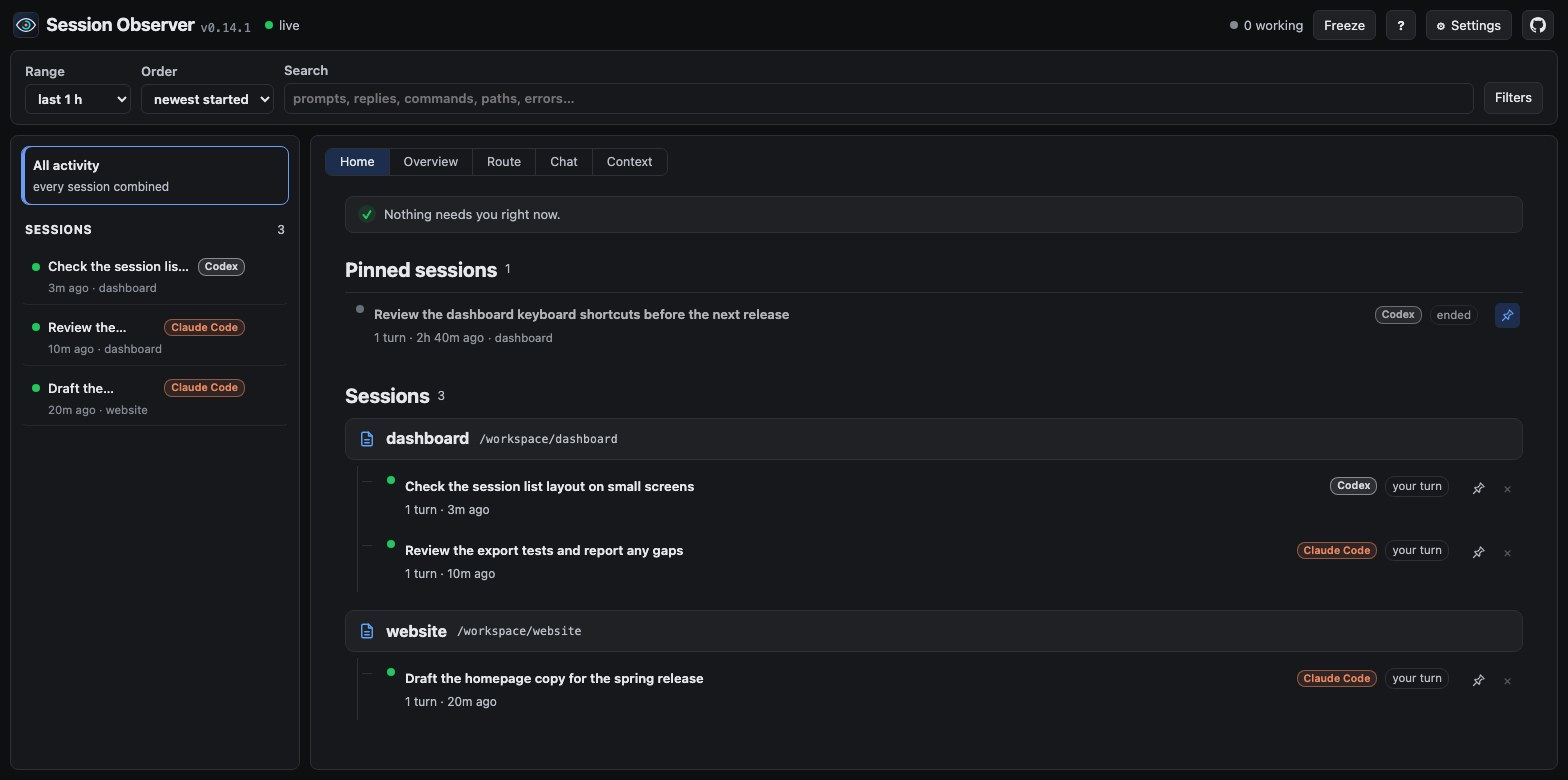
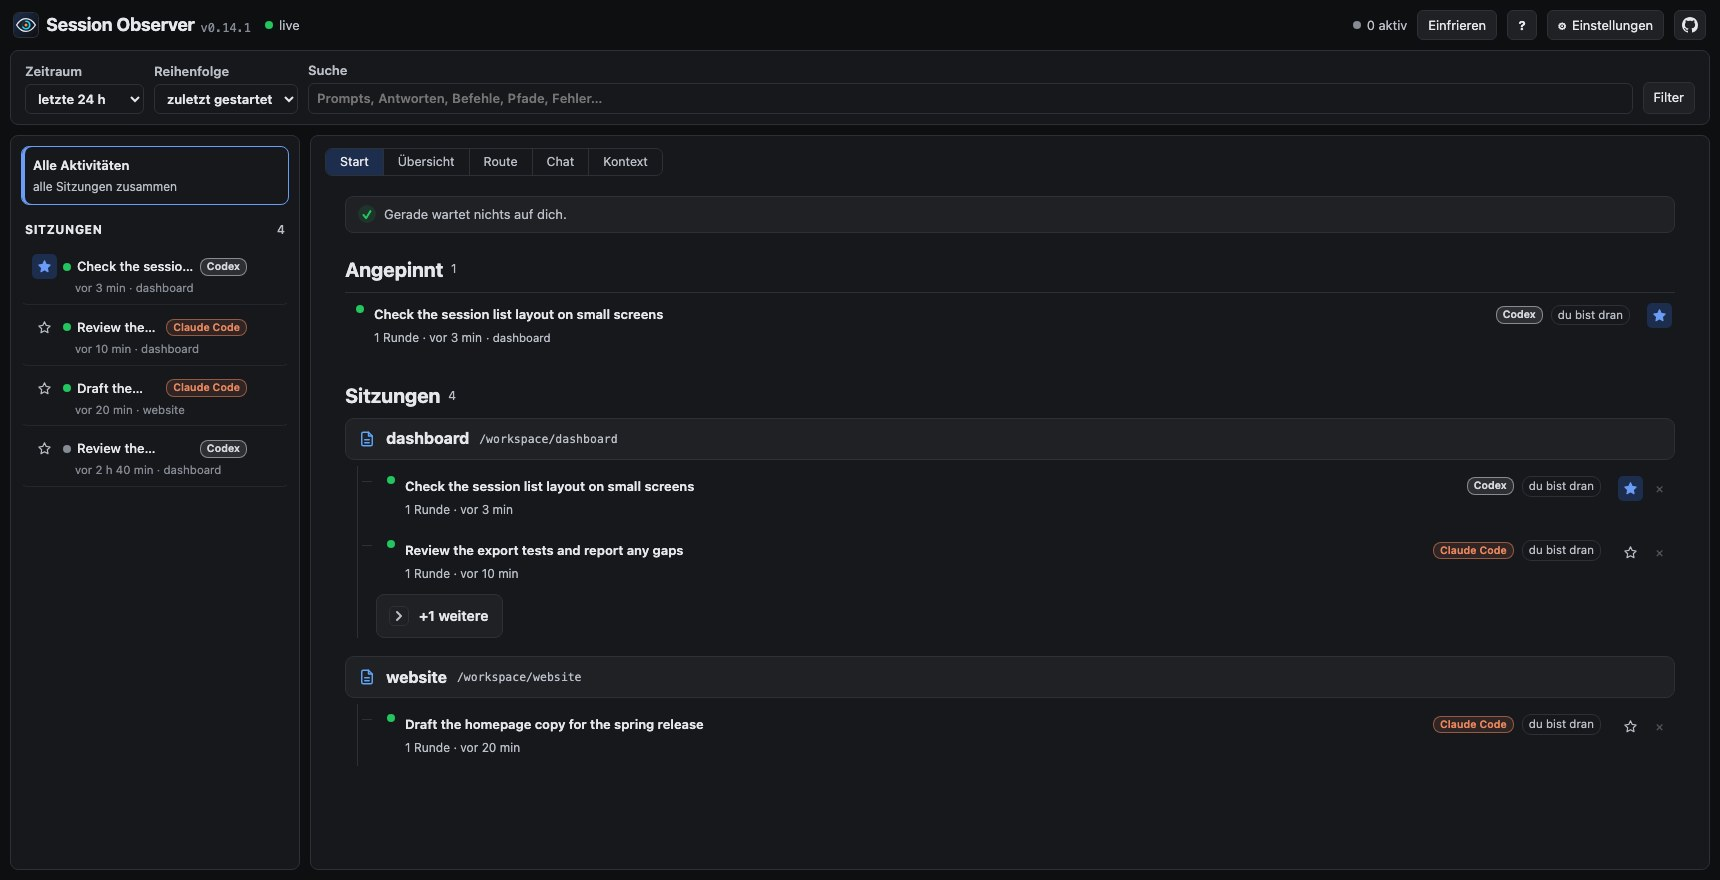
feat: star sessions in the sidebar and narrow details

diff --git a/server/dashboard/features/sessions/render.js b/server/dashboard/features/sessions/render.js
@@ -15,26 +15,28 @@ const sessionName = session => stripTags(session.title) || baseName(session.cwd)
 // The orders of the sessions list. Only "activity" moves a session while it works; the others change only when a
 // session starts or is renamed. "project" groups by folder (A–Z), newest started first inside each.
 const byStarted = (a, b) => (b.started || b.last || '').localeCompare(a.started || a.last || '');
+const byPinned = (a, b) => Number(!!b.pinned) - Number(!!a.pinned);
 const projectOf = session => session.cwd || '';
 const SESSION_ORDERS = {
   started: byStarted,
   activity: (a, b) => (b.last || '').localeCompare(a.last || ''),
   name: (a, b) => sessionName(a).localeCompare(sessionName(b), undefined, { sensitivity: 'base' }) || byStarted(a, b),
   project: (a, b) => (baseName(projectOf(a)) || '\uffff').localeCompare(baseName(projectOf(b)) || '\uffff', undefined, { sensitivity: 'base' })
-    || projectOf(a).localeCompare(projectOf(b)) || byStarted(a, b),
+    || projectOf(a).localeCompare(projectOf(b)) || byPinned(a, b) || byStarted(a, b),
 };
 
-// the sessions in the range that match the search (the selected one always), in the chosen order
+// Pins bypass the date range and sort first within the chosen order or project group.
 function visibleSessions() {
   const cutoff = rangeCutoffIso();
   const matchesSearch = session => !state.searchText
     || ((session.title || '') + ' ' + (session.cwd || '') + ' ' + session.id).toLowerCase().includes(state.searchText)
     || state.scope === session.id;
+  const order = SESSION_ORDERS[state.sessionOrder] || byStarted;
   return [...state.sessions.values()]
-    .filter(session => !cutoff || (session.last || '') >= cutoff)
+    .filter(session => session.pinned || !cutoff || (session.last || '') >= cutoff)
     .filter(session => isAgentShown(session.agent || DEFAULT_AGENT) || state.scope === session.id)
     .filter(matchesSearch)
-    .sort(SESSION_ORDERS[state.sessionOrder] || byStarted);
+    .sort(state.sessionOrder === 'project' ? order : (a, b) => byPinned(a, b) || order(a, b));
 }
 
 function selectedRangeLabel() {
@@ -55,6 +57,11 @@ function sessionChipsHtml(session) {
     + (session.context ? `<span class="chip" title="${escapeHtml(TEXT.ctxWindow)}">${escapeHtml(TEXT.ctxShort)} ${Math.round(session.context.pct * 100)}%</span>` : '');
 }
 
+function sessionPinHtml(session, className) {
+  const pinTitle = session.pinned ? TEXT.home.unpinSession : TEXT.home.pinSession;
+  return `<button class="session-pin ${className}" type="button" data-pin-session="${escapeHtml(session.id)}" title="${escapeHtml(pinTitle)}" aria-label="${escapeHtml(TEXT.home.pinSession)}" aria-pressed="${!!session.pinned}">${iconSvg('star')}</button>`;
+}
+
 // The list shows the state dot, the title, and under it when and where; the rest is in a card that floats beside it on hover.
 // The agent badge shows only when the list has sessions of more than one agent.
 function sessionCardHtml(session, showAgent) {
@@ -68,7 +75,7 @@ function sessionCardHtml(session, showAgent) {
   const meta = `${session.last ? escapeHtml(formatAgo(session.last)) : ''} · ${escapeHtml(countOf(session.turns || 0, 'turn'))} · ${escapeHtml(countOf(session.toolCalls || 0, 'tool'))}`
     + (outputTokens ? ` · ${escapeHtml(TEXT.outX(formatCompactNumber(outputTokens)))}` : '');
   return `<div class="card ${session.id === state.scope ? 'sel' : ''}" data-id="${escapeHtml(session.id)}">
-        <div class="row1"><span class="${dotClass}" title="${status}"></span><span class="name">${name}</span>${agentTag}<button class="session-delete" type="button" data-delete-session="${escapeHtml(session.id)}" title="${escapeHtml(TEXT.deleteSessionTitle)}" aria-label="${escapeHtml(TEXT.deleteSessionTitle)}">×</button></div>
+        <div class="row1">${sessionPinHtml(session, 'sidebar-session-pin')}<span class="${dotClass}" title="${status}"></span><span class="name">${name}</span>${agentTag}<button class="session-delete" type="button" data-delete-session="${escapeHtml(session.id)}" title="${escapeHtml(TEXT.deleteSessionTitle)}" aria-label="${escapeHtml(TEXT.deleteSessionTitle)}">×</button></div>
         ${where ? `<div class="sline">${escapeHtml(where)}</div>` : ''}
         <template class="sdet"><div class="row1"><span class="name">${name}</span><span class="state"><span class="${dotClass}"></span>${status}</span></div>
         <div class="meta">${meta}</div>${lastTool}
@@ -102,6 +109,7 @@ function renderSessions() {
   const sessions = visibleSessions();
   const showAgent = new Set(sessions.map(session => session.agent || DEFAULT_AGENT)).size > 1;
   const panel = elementById('sessions'), scrollTop = panel.scrollTop;
+  const focusedPin = panel.contains(document.activeElement) && document.activeElement.dataset.pinSession;
   panel.innerHTML = `
     <div class="card ${state.scope === ALL_SESSIONS ? 'sel' : ''}" data-id="all">
       <div class="row1"><span class="name">${escapeHtml(TEXT.allActivity)}</span></div>
@@ -110,6 +118,7 @@ function renderSessions() {
     <div class="sect">${escapeHtml(TEXT.sessions)} <span>${sessions.length}</span></div>
     <div class="sess-list">${sessionListHtml(sessions, showAgent) || `<div class="empty">${escapeHtml(TEXT.noSessions)}</div>`}</div>${olderSessionsHtml()}`;
   panel.scrollTop = scrollTop;
+  if (focusedPin) panel.querySelector(`[data-pin-session="${CSS.escape(focusedPin)}"]`)?.focus({ preventScroll: true });
   renderSessionHoverCard(); // the list was rebuilt: refresh (or hide) the hover card
 }
 

diff --git a/server/dashboard/dashboard.css b/server/dashboard/dashboard.css
@@ -273,7 +273,7 @@ svg.metro { display: block; }
 
 
 /* top three panels: sessions · turns · details */
-.panels { display: grid; grid-template-columns: 290px minmax(0, 1.7fr) minmax(340px, 1fr); gap: 10px; height: calc(100vh - var(--ptop, 130px) - 10px); min-height: 560px; }
+.panels { display: grid; grid-template-columns: 290px minmax(0, 1fr) 260px; gap: 10px; height: calc(100vh - var(--ptop, 130px) - 10px); min-height: 560px; }
 .panels[data-layout="home"] { grid-template-columns: 290px minmax(0, 1fr); }
 .panels[data-layout="home"] #detail { display: none; }
 .panels > .panel { min-height: 0; }
@@ -299,10 +299,15 @@ svg.metro { display: block; }
 .sess-list .card.sel { border-color: var(--accent); }
 /* a session in the list is one line: state dot and title; the details float beside it on hover (#sesstip) */
 .sess-list .card { padding: 7px 10px; margin-bottom: 2px; }
-.sess-list .card .row1 { justify-content: flex-start; align-items: center; }
+.sess-list .card .row1 { justify-content: flex-start; align-items: center; gap: 6px; }
 .sess-list .card .name { -webkit-line-clamp: 1; font-weight: 500; }
 .sess-list .card.sel .name { font-weight: 600; }
-.sess-list .card .sline { color: var(--faint); font-size: 11.5px; margin: 1px 0 0 16px; white-space: nowrap; overflow: hidden; text-overflow: ellipsis; }
+.sess-list .card .sline { color: var(--faint); font-size: 11.5px; margin: 1px 0 0 43px; white-space: nowrap; overflow: hidden; text-overflow: ellipsis; }
+.session-pin { display: grid; place-items: center; flex: none; width: 25px; height: 25px; padding: 0; border: 1px solid transparent; border-radius: 5px; background: transparent; color: var(--muted); cursor: pointer; }
+.session-pin svg { width: 15px; height: 15px; }
+.session-pin:hover, .session-pin[aria-pressed="true"] { color: var(--accent); background: var(--accent-bg); }
+.session-pin[aria-pressed="true"] svg { fill: currentColor; }
+.session-pin:focus-visible { outline: 2px solid var(--accent); }
 .sess-list .card .session-delete { opacity: 0; }
 .session-delete, .home-session-delete { flex: none; width: 25px; height: 25px; padding: 0; border: 1px solid transparent; border-radius: 5px; background: transparent; color: var(--muted); font: inherit; line-height: 1; cursor: pointer; opacity: .35; }
 .session-delete:hover, .home-session-delete:hover { border-color: color-mix(in srgb, var(--err) 50%, var(--line)); color: var(--err); opacity: 1; }
@@ -561,6 +566,22 @@ details.cx.grp .chip.err { color: var(--err); border-color: color-mix(in srgb, v
 .cu-mem { color: var(--cu-mem); } .cu-skills { color: var(--cu-skills); } .cu-agents { color: var(--cu-agents); } .cu-defer { color: var(--cu-defer); } .cu-msgs { color: var(--cu-msgs); } .cu-free, .cu-buf { color: var(--cu-free); }
 .cxcomp { display: flex; align-items: center; gap: 8px; padding: 8px 12px; margin: 8px 0; border: 1px dashed var(--s-context); border-radius: 8px; color: var(--s-context); font-weight: 600; font-size: 12.5px; }
 
+@media (min-width: 1201px) {
+  #detail { padding-inline: 12px; overflow-wrap: anywhere; }
+  #detail .dh { flex-wrap: wrap; gap: 6px; }
+  #detail .keygrid { grid-template-columns: repeat(2, minmax(0, 1fr)); }
+  #detail .erow .frow {
+    grid-template-columns: 14px max-content minmax(0, 1fr) auto;
+    grid-template-areas: "mark time actor duration" ". summary summary summary";
+    gap: 2px 6px;
+  }
+  #detail .frow .mk { grid-area: mark; }
+  #detail .frow .t { grid-area: time; }
+  #detail .frow .who { grid-area: actor; }
+  #detail .frow .dur { grid-area: duration; }
+  #detail .frow .what { grid-area: summary; white-space: normal; }
+}
+
 @media (max-width: 1200px) {
   .panels { grid-template-columns: 260px minmax(0, 1fr); grid-template-rows: max(560px, 78vh) auto; height: auto; }
   .panels[data-layout="home"] { grid-template-columns: 260px minmax(0, 1fr); grid-template-rows: max(560px, 78vh); }
@@ -616,10 +637,7 @@ details.cx.grp .chip.err { color: var(--err); border-color: color-mix(in srgb, v
 .hsess::before, .hsub::before { content: ''; position: absolute; left: -14px; top: 15px; width: 10px; border-top: 1px solid var(--line); }
 .hsess-main { display: flex; align-items: flex-start; gap: 10px; width: calc(100% - 63px); padding: 9px 10px; margin: 2px 0; border: 1px solid transparent; border-radius: 7px; background: transparent; color: inherit; text-align: left; white-space: normal; }
 .home-session-delete { position: absolute; top: 10px; right: 3px; }
-.home-session-pin { position: absolute; top: 10px; right: 32px; display: grid; place-items: center; width: 25px; height: 25px; padding: 0; border: 1px solid transparent; border-radius: 5px; background: transparent; color: var(--muted); cursor: pointer; }
-.home-session-pin svg { width: 15px; height: 15px; }
-.home-session-pin:hover, .home-session-pin[aria-pressed="true"] { color: var(--accent); background: var(--accent-bg); }
-.home-session-pin:focus-visible { outline: 2px solid var(--accent); }
+.home-session-pin { position: absolute; top: 10px; right: 32px; }
 .hpins .hsess { border-top: 1px solid var(--line); }
 .hpins .hsess::before { display: none; }
 .hpins .hsess-main { width: calc(100% - 34px); }

diff --git a/server/dashboard/features/home/render.js b/server/dashboard/features/home/render.js
@@ -62,13 +62,12 @@ function sessionRowHtml(session, startedUnder) {
       + (folded ? `<li class="hsub muted">${escapeHtml(TEXT.home.more(folded))}</li>` : '');
   }
   const name = homeSessionName(session);
-  const pinTitle = session.pinned ? TEXT.home.unpinSession : TEXT.home.pinSession;
   const project = compact && session.cwd ? `<span class="hpath" title="${escapeHtml(session.cwd)}">· ${escapeHtml(baseName(session.cwd) || session.cwd)}</span>` : '';
   return `<li class="hsess act-${activity} ${session.id === state.scope ? 'sel' : ''}">
       <button class="hsess-main" type="button" ${openAttributes(session)}><span class="${HOME_DOT[activity]}"></span>
         <span class="hsess-content"><span class="hsess-title"><span class="hname" title="${escapeHtml(name)}">${escapeHtml(name)}</span>${homeAgentTag(session)}<span class="hstate">${escapeHtml(TEXT.sessionState[activity])}</span></span>
         <span class="hsess-meta">${escapeHtml(countOf(session.turns || 0, 'turn'))}${session.last ? ` · ${escapeHtml(formatAgo(session.last))}` : ''}${project}${lastTool}</span></span></button>
-      <button class="home-session-pin" type="button" data-pin-session="${escapeHtml(session.id)}" title="${escapeHtml(pinTitle)}" aria-label="${escapeHtml(TEXT.home.pinSession)}" aria-pressed="${!!session.pinned}">${iconSvg('pin')}</button>
+      ${sessionPinHtml(session, 'home-session-pin')}
       ${compact ? '' : `<button class="home-session-delete" type="button" data-delete-session="${escapeHtml(session.id)}" title="${escapeHtml(TEXT.deleteSessionTitle)}" aria-label="${escapeHtml(TEXT.deleteSessionTitle)}">×</button>`}
       ${children ? `<ul>${children}</ul>` : ''}</li>`;
 }

diff --git a/server/dashboard/features/sessions/controls.js b/server/dashboard/features/sessions/controls.js
@@ -1,5 +1,31 @@
 'use strict';
 // Session Observer dashboard — Sessions panel, the controls: a click picks the scope, hovering shows the hover card.
+const pendingSessionPins = new Set();
+
+async function toggleSessionPin(button) {
+  const id = button.dataset.pinSession;
+  if (pendingSessionPins.has(id)) return;
+  pendingSessionPins.add(id);
+  button.setAttribute('aria-disabled', 'true');
+  const method = button.getAttribute('aria-pressed') === 'true' ? 'DELETE' : 'PUT';
+  try {
+    const response = await fetch(`/api/sessions/${encodeURIComponent(id)}/pin`, { method });
+    if (!response.ok) {
+      const body = await response.json().catch(() => ({}));
+      throw new Error(body.error || `HTTP ${response.status}`);
+    }
+    if (!state.connected || state.frozen) {
+      await loadSessions();
+      scheduleRender('sessions', 'mid');
+    }
+  } catch (error) {
+    alert(TEXT.home.pinFailed(error.message));
+  } finally {
+    pendingSessionPins.delete(id);
+    button.removeAttribute('aria-disabled');
+  }
+}
+
 async function deleteSessionFromDashboard(button) {
   const id = button.dataset.deleteSession;
   const session = state.sessions.get(id);
@@ -62,6 +88,8 @@ function selectNextSessionNeedingYou() {
 
 function initSessionsControls() {
   elementById('sessions').onclick = event => {
+    const pinButton = event.target.closest('[data-pin-session]');
+    if (pinButton) return toggleSessionPin(pinButton);
     const deleteButton = event.target.closest('[data-delete-session]');
     if (deleteButton) {
       event.preventDefault();

diff --git a/server/dashboard/features/home/controls.js b/server/dashboard/features/home/controls.js
@@ -1,31 +1,5 @@
 'use strict';
 // Session Observer dashboard — Home, the controls: a session or a wait opens that session on its Route.
-const pendingSessionPins = new Set();
-
-async function toggleSessionPin(button) {
-  const id = button.dataset.pinSession;
-  if (pendingSessionPins.has(id)) return;
-  pendingSessionPins.add(id);
-  button.setAttribute('aria-disabled', 'true');
-  const method = button.getAttribute('aria-pressed') === 'true' ? 'DELETE' : 'PUT';
-  try {
-    const response = await fetch(`/api/sessions/${encodeURIComponent(id)}/pin`, { method });
-    if (!response.ok) {
-      const body = await response.json().catch(() => ({}));
-      throw new Error(body.error || `HTTP ${response.status}`);
-    }
-    if (!state.connected || state.frozen) {
-      await loadSessions();
-      scheduleRender('mid');
-    }
-  } catch (error) {
-    alert(TEXT.home.pinFailed(error.message));
-  } finally {
-    pendingSessionPins.delete(id);
-    button.removeAttribute('aria-disabled');
-  }
-}
-
 function initHomeControls() {
   viewBox().addEventListener('click', event => {
     const pinButton = event.target.closest('[data-pin-session]');

diff --git a/server/dashboard/building-blocks/icons.js b/server/dashboard/building-blocks/icons.js
@@ -16,7 +16,7 @@ const ICONS = {
   other: '<path d="M4 6h9M17 6h3M4 12h3M11 12h9M4 18h11M19 18h1"/><circle cx="15" cy="6" r="2"/><circle cx="9" cy="12" r="2"/><circle cx="17" cy="18" r="2"/>',
   core: '<path d="M12 3v18M3 12h18M5.6 5.6l12.8 12.8M18.4 5.6L5.6 18.4"/>',
   turn: '<path d="M4 12a8 8 0 1 0 2.3-5.7M4 4v4h4"/>',
-  pin: '<path d="m15 3 6 6-4 1-3 3v4l-1 1-7-7 1-1h4l3-3zM9.5 14.5 4 20"/>',
+  star: '<path d="m12 3 2.8 5.7 6.2.9-4.5 4.4 1.1 6.2-5.6-2.9-5.6 2.9 1.1-6.2L3 9.6l6.2-.9z"/>',
 };
 
 const iconSvg = (id, className = 'ic') => `<svg class="${className}" viewBox="0 0 24 24">${ICONS[id] || ICONS.other}</svg>`;

diff --git a/README.md b/README.md
@@ -15,13 +15,13 @@
 
 ## Screenshots
 
-The Home screenshot uses example sessions. The other screenshots come from real Claude Code and Codex sessions. The numbered labels were added for this README; the dashboard doesn't show them.
+The Home and Overview screenshots use example sessions. The remaining screenshots come from real Claude Code and Codex sessions. The numbered labels were added for this README; the dashboard doesn't show them.
 
 ![Home showing a pinned session above the sessions grouped by project](docs/home.jpg)
 
-*Home: pinned sessions above the project tree. Click a session's pin to add or remove it. Pins survive dashboard restarts and stay visible outside the selected date range.*
+*Home: pinned sessions above the project tree. Click a session's star on Home or in the left session list to pin or unpin it. Pinned sessions stay above other sessions in their group and remain visible outside the selected date range.*
 
-![Overview with session totals, a Turns chart, context over time, activity by group and the open turn in Details](docs/overview.jpg)
+![Overview with a starred session in the left sidebar, the Turns chart in the center and a selected turn in the compact Details panel](docs/overview.jpg)
 
 *Overview: totals, one bar per turn, context use and activity. Click a bar to open the turn.*
 
